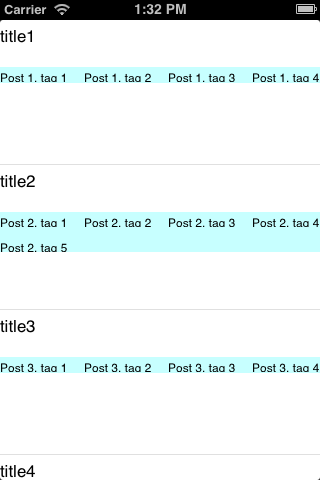
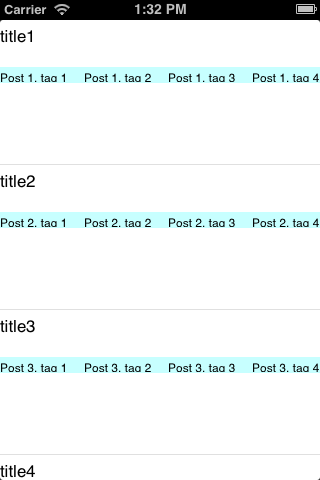
Images fixed

Changed region(s): [[0.0, 0.4688, 1.0, 0.5312]]

diff --git a/README.md b/README.md
@@ -1,7 +1,7 @@
 Let's imagine we have list of posts. Each post has title and list of tags. We want to create app that displays table of posts and each table cell contains title of the post and its tags. List of tags we are going to display via UICollectionView. And here is a problem. Our app is not adjust size of UICollectionView so that we could see all tags, see the first picture:
-[![Build Status](https://raw.github.com/avokin/PostViewer/master/PostViewer/JustAfterLoad.png)]
+![Build Status](https://raw.github.com/avokin/PostViewer/master/PostViewer/AfterScroll.png)
 
 but when we scroll table in some cells height of the collection view calculated correctly, see the second picture:
-[![Build Status](https://raw.github.com/avokin/PostViewer/master/PostViewer/AfterScrolling.png)]
+[![Build Status](https://raw.github.com/avokin/PostViewer/master/PostViewer/JustAfterLoad.png)]
 
 So, the question is - how to make UIScrollView autoresize according to it's data?
